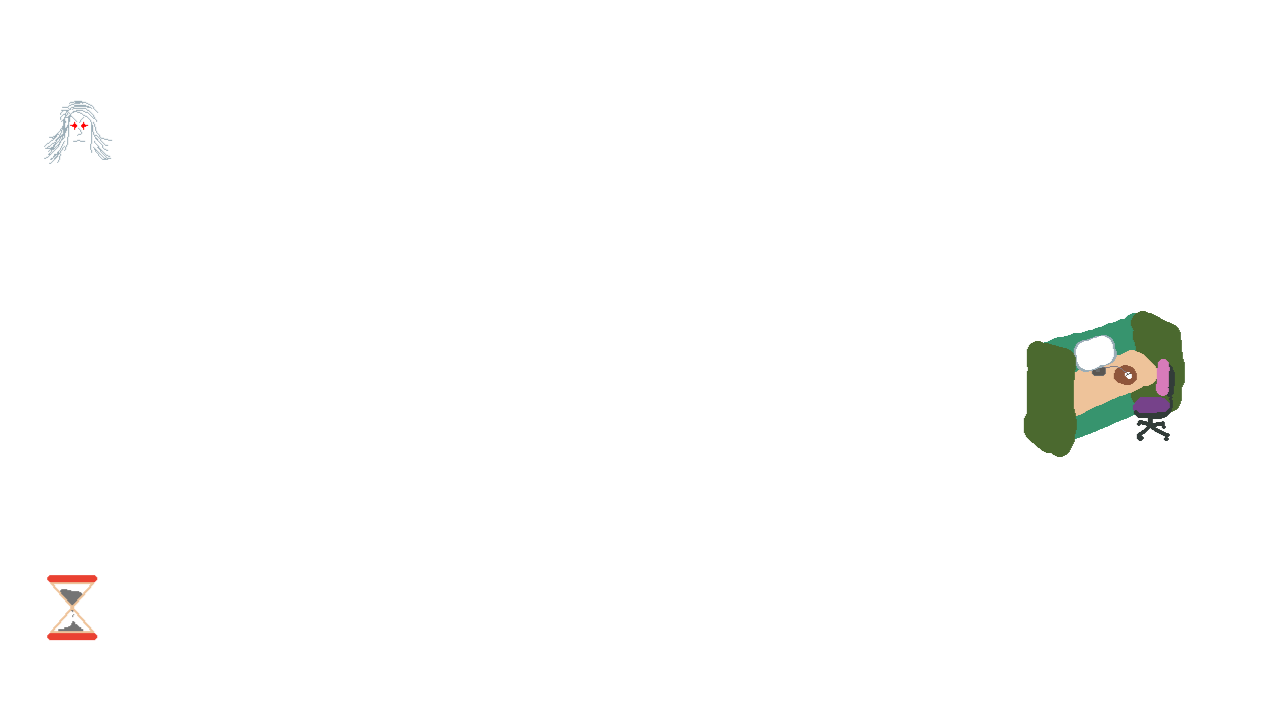
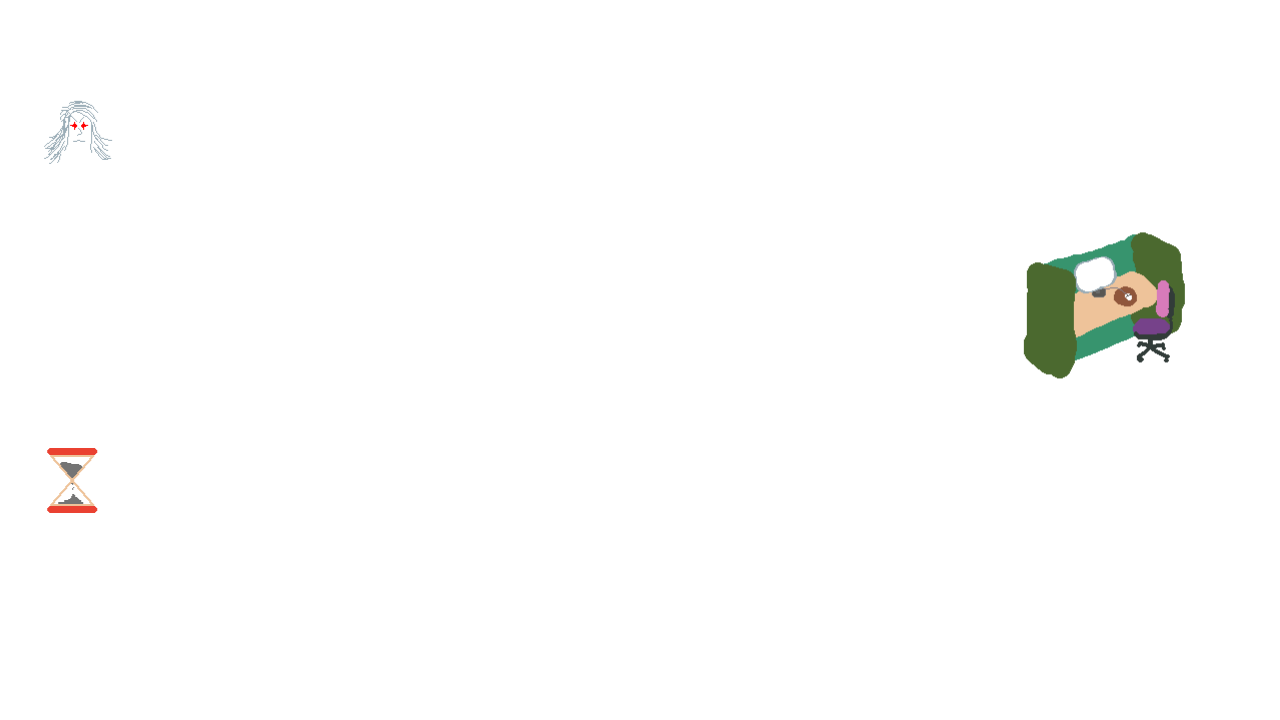
Add "next" button to splash image

Changed region(s): [[0.7812, 0.3056, 0.9375, 0.6417], [0.0312, 0.6111, 0.0938, 0.7333], [0.0312, 0.7944, 0.0938, 0.9167]]

diff --git a/src/scene-menu.ts b/src/scene-menu.ts
@@ -7,6 +7,7 @@ import { ButtonObj } from './obj-button';
 import { SceneBattleKey } from './scene-battle';
 import { isInFullScreen, requestFullScreen } from './full-screener';
 import { MusicObj } from './obj-music';
+import { tweenPromise } from './utils';
 
 const splashKey = 'splash';
 const welcomeKey = 'welcome';
@@ -38,7 +39,6 @@ export class SceneMenu extends Phaser.Scene {
     const welcomeImage = this.add.image(0, 0, welcomeKey).setOrigin(0);
     const splashImage = this.add.image(0, 0, splashKey).setOrigin(0);
     splashImage.alpha = 0;
-    welcomeImage.setInteractive();
 
     this.input.on('pointerdown', () => {
       if (!isInFullScreen()) {
@@ -68,20 +68,50 @@ export class SceneMenu extends Phaser.Scene {
       this.scene.start(SceneBattleKey);
     };
 
-    welcomeImage.on('pointerup', () => {
-      splashImage.alpha = 1;
-      welcomeImage.alpha = 0;
-      startButton.alpha = 1;
-      startButton.pulse();
+    const nextButton = new ButtonObj(this, {
+      width: gameWidth * 0.12,
+      height: gameHeight * 0.1,
+      text: "Next",
+      outlinePx: 4,
+      outlineColor: 0x073497,
+      pointerDownColor: 0x343434,
+      pointerUpColor: 0x147474,
+      pointerOverColor: 0x545434,
+      pointerOutColor: 0x545454,
     });
 
 
-    // this.add.text(0, 0, 'Press S to restart scene', {
-    //   fontSize: '60px',
-    //   fontFamily: "Helvetica",
-    // });
+    nextButton.x = gameWidth / 4;
+    nextButton.y = 0;
+    nextButton.scale = 2;
+    tweenPromise(this, {
+      targets: nextButton,
+      x: gameWidth / 4,
+      y: gameHeight * 0.8,
+      scale: 1.0,
+      angle: 0,
+      duration: 800,
+      // ease: 'cubic',
+    });
 
-    // this.add.image(100, 100, 'particle');
+    nextButton.onPress = () => {
+      // welcomeImage.alpha = 0;
+      // nextButton.alpha = 0;
+      nextButton.destroy();
+      welcomeImage.destroy();
+
+      splashImage.alpha = 1;
+      startButton.alpha = 1;
+      startButton.pulse();
+    };
+
+    // welcomeImage.setInteractive();
+    // welcomeImage.on('pointerup', () => {
+    //   splashImage.alpha = 1;
+    //   welcomeImage.alpha = 0;
+    //   startButton.alpha = 1;
+    //   startButton.pulse();
+    // });
 
     const paperClipsCount = 20;
     for (let i = 0; i < paperClipsCount; i++) {

diff --git a/src/obj-music.ts b/src/obj-music.ts
@@ -109,6 +109,7 @@ export class MusicObj extends Phaser.Sound.BaseSound {
     const idToMarker: {
       [id: string]: (keyof typeof soundMarkersTimes)[];
     } = {
+      gunrange: ['shoot'],
       party: ['woohoo'],
       saysmart: ['mmyeah'],
       baby: ['googoo'],

diff --git a/src/card-data.ts b/src/card-data.ts
@@ -44,7 +44,7 @@ export function codeToResourceName(code: ResourceKeysType) {
 
 export const cardsList: CardData[] = [
   {
-    id: "bgr",
+    id: "gunrange",
     title: "Take the boss to the gun range",
     mgr: 5,
     money: -3,

diff --git a/README.md b/README.md
@@ -43,6 +43,6 @@ https://twitter.com/ubershmekel
 
 ## Last hour plan
 
-* Finish adding card sounds
+* ✅Finish adding card sounds
 * Add a "next" button to the first splash screen so you don't miss the content there
 * Add something to make the goal of surviving weeks more obvious.
